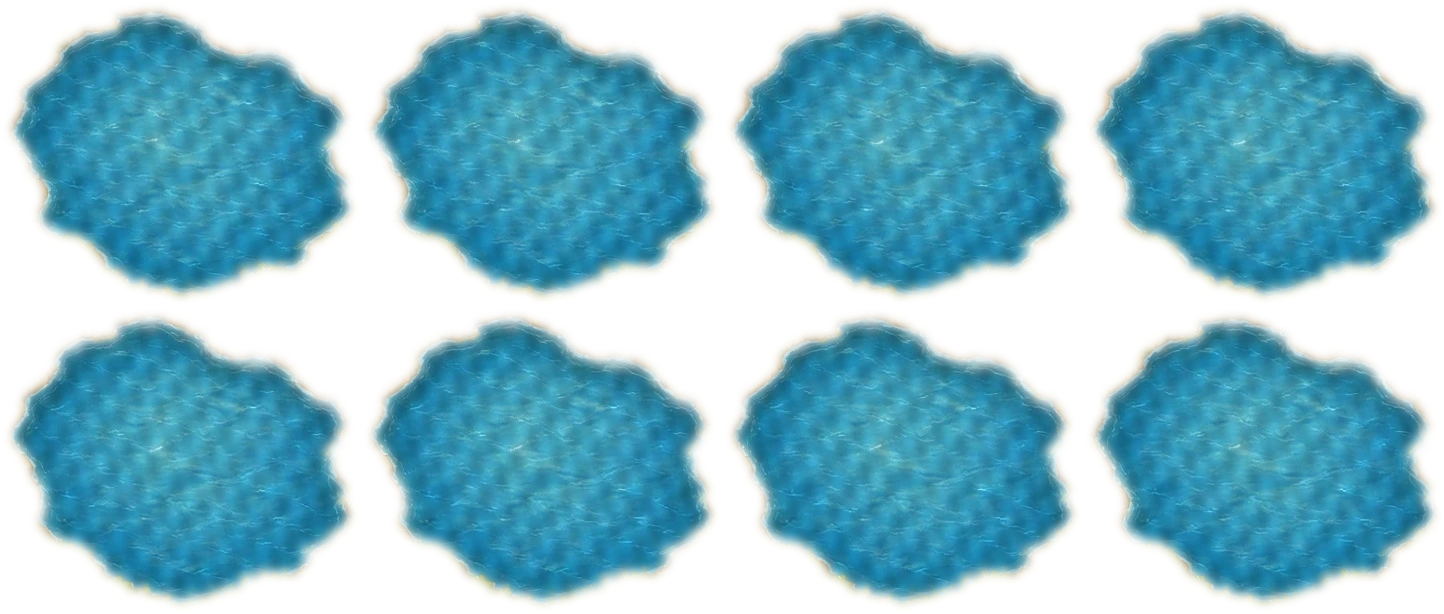
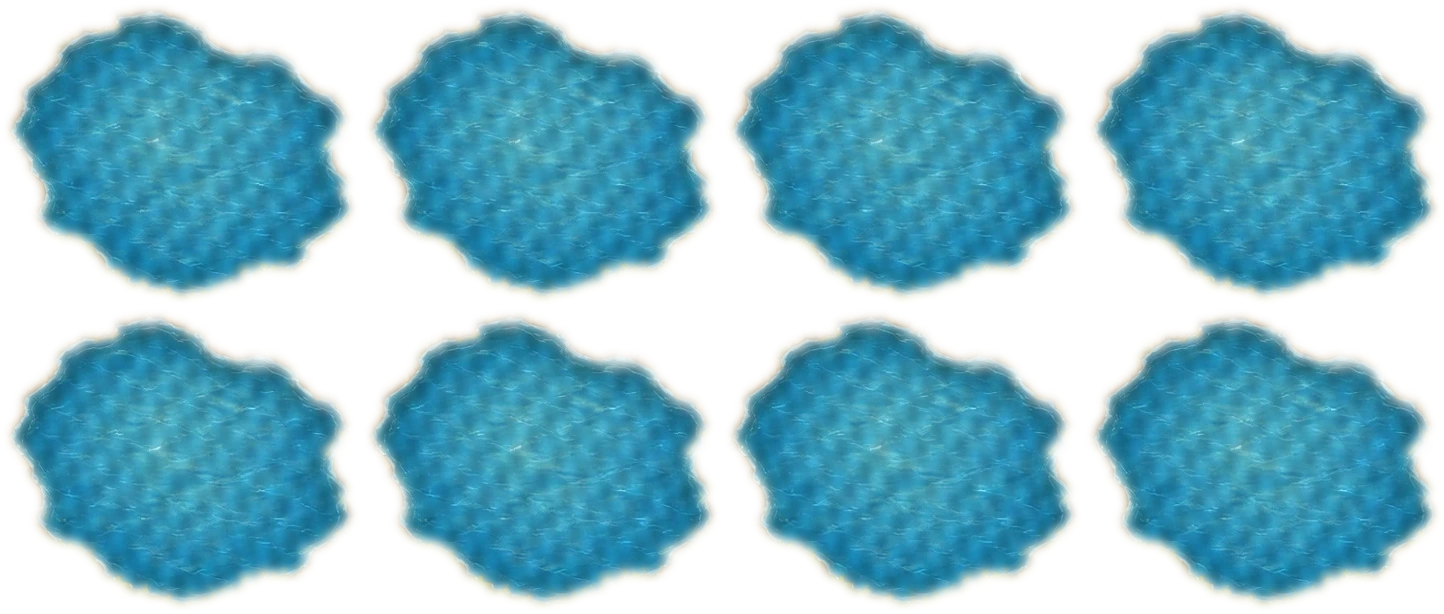
tweak(campus): 池塘水波幅度調小（派派覺得晃動有點大）
gen_pond_water.py 加 AMP 倍率(0.45)套在波紋位移 dx/dy，水面晃動變微更靜；
光點波光保留、8幀無縫循環不變、對位尺寸不變。重生 pond_water.webp。

diff --git a/village-web/gen_pond_water.py b/village-web/gen_pond_water.py
@@ -10,6 +10,7 @@ BG = HERE / "campus_ground_v2.webp"
 N = 8            # 幀數
 COLS, ROWS = 4, 2
 PAD = 14        # 水域外擴（給波紋位移 + 羽化留邊）
+AMP = 0.45      # 水波幅度倍率（越小波越微；1.0=原始較大，派派覺得太大改 0.45）
 
 im = Image.open(BG).convert("RGB")
 W, H = im.size
@@ -37,8 +38,8 @@ frames = []
 for t in range(N):
     ph = 2 * np.pi * t / N
     # 波紋位移：水平 + 垂直雙向小幅 sine（振幅小，池塘靜水感，非河流流向）
-    dx = 2.2 * np.sin(yy * 0.085 + xx * 0.02 + ph) + 1.1 * np.cos(yy * 0.05 - ph)
-    dy = 1.6 * np.sin(xx * 0.075 - yy * 0.02 + ph * 1.0)
+    dx = AMP * (2.2 * np.sin(yy * 0.085 + xx * 0.02 + ph) + 1.1 * np.cos(yy * 0.05 - ph))
+    dy = AMP * (1.6 * np.sin(xx * 0.075 - yy * 0.02 + ph * 1.0))
     sx = np.clip(xx + dx, 0, fw - 1).astype(np.int32)
     sy = np.clip(yy + dy, 0, fh - 1).astype(np.int32)
     warped = rgb[sy, sx]
